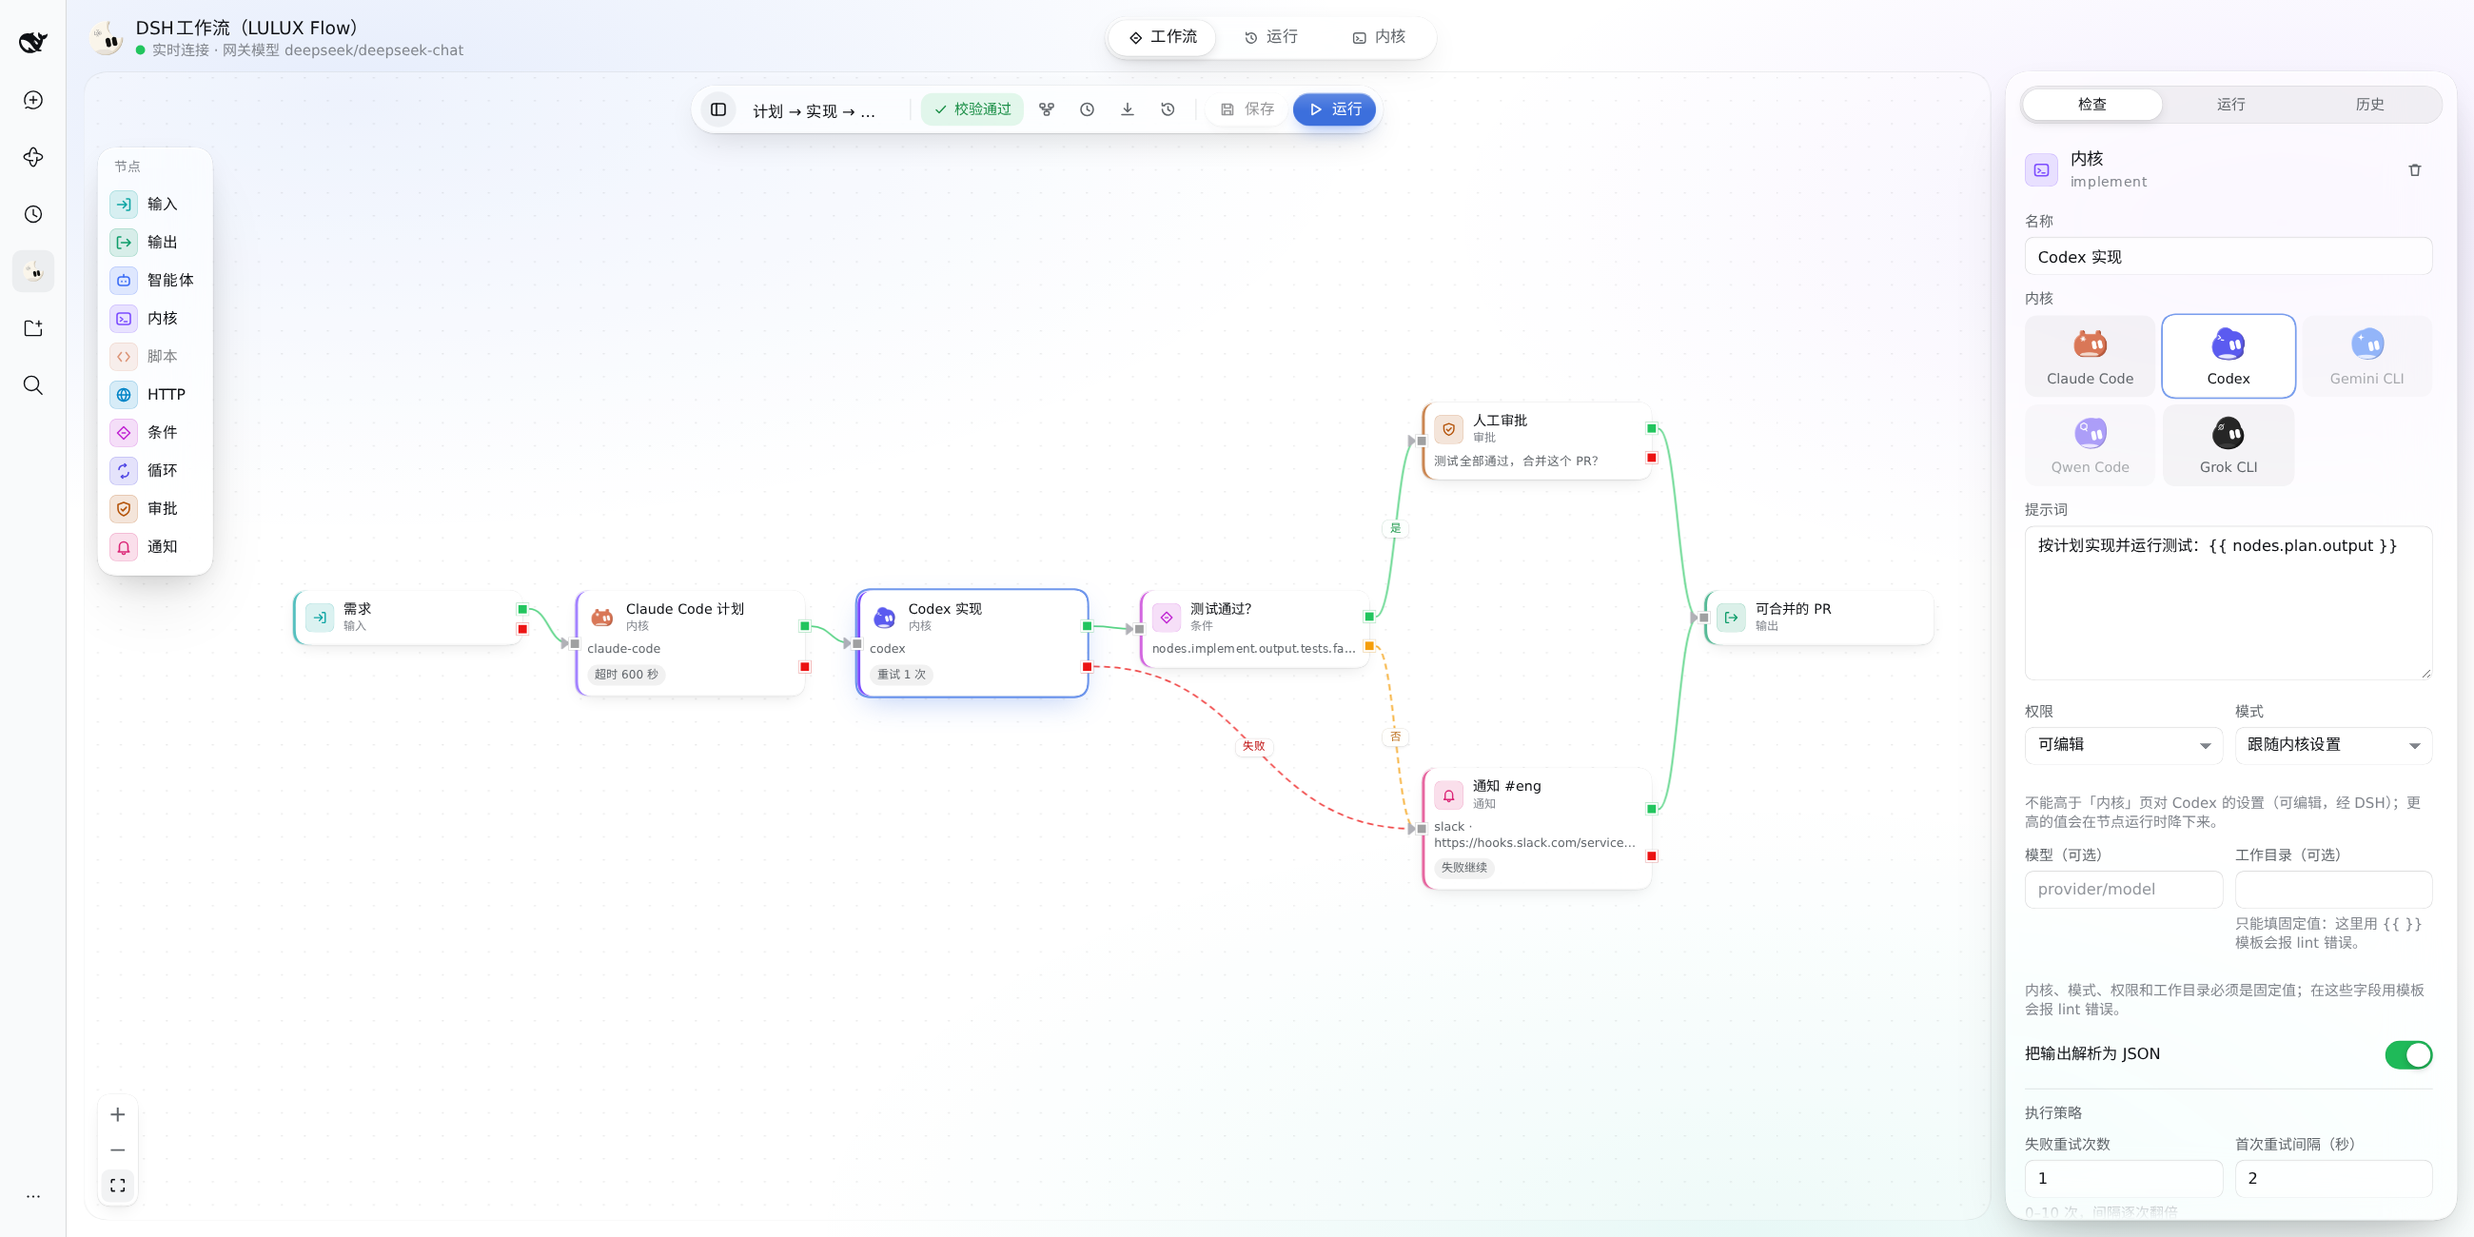
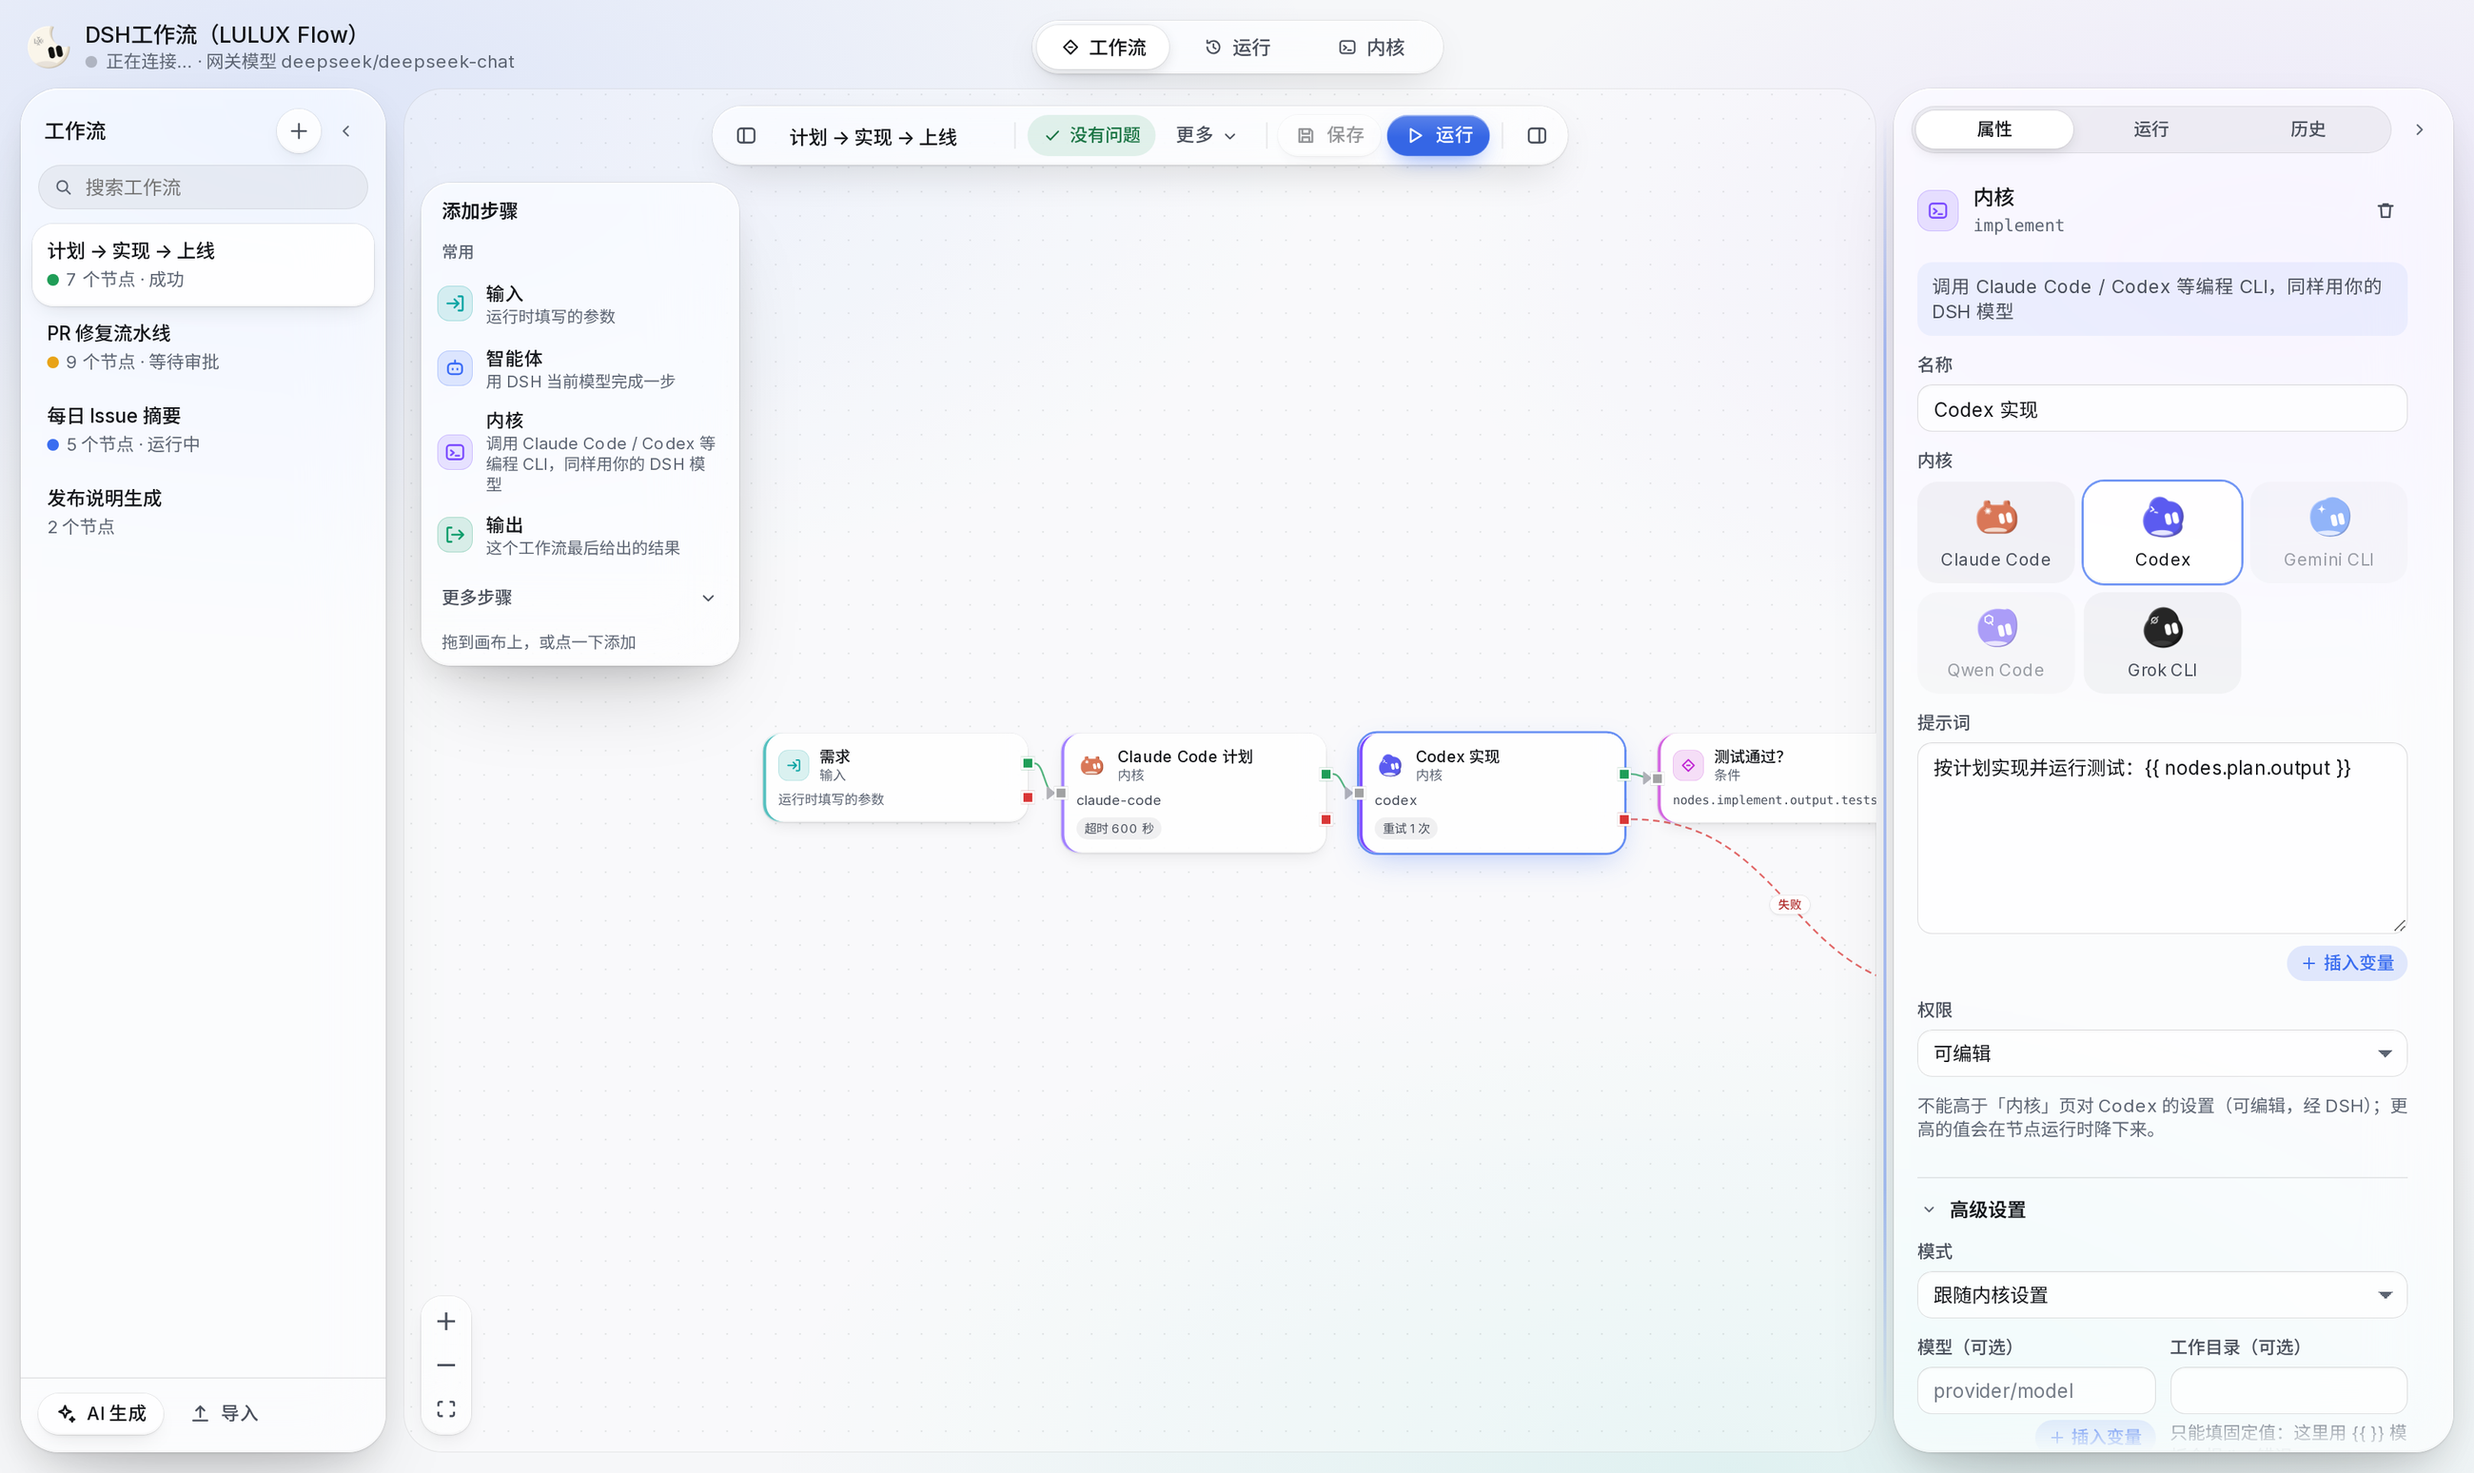
docs: refresh canvas screenshots and note resizable panels

diff --git a/CHANGELOG.md b/CHANGELOG.md
@@ -52,6 +52,9 @@ All notable changes to this project are documented here. The format follows
   under "Advanced settings" and "Connections", and an "Insert variable" picker
   replaces typing `{{ … }}` by hand. A first-time empty state explains the
   three steps to a first run.
+- The workflow list and the inspector can be collapsed, and resized by
+  dragging their inner edge (double-click resets). Widths and collapsed state
+  are remembered.
 - The npm package includes the TypeScript sources (`src/`, `client/src/`).
 
 ## [0.1.0] - 2026-10-23
